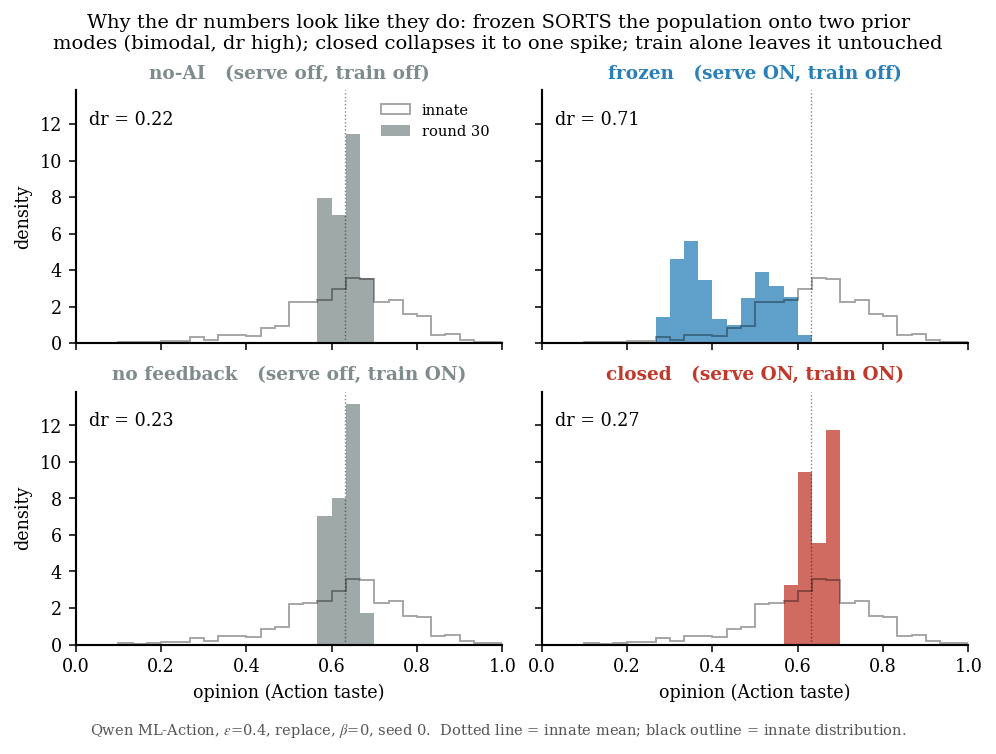
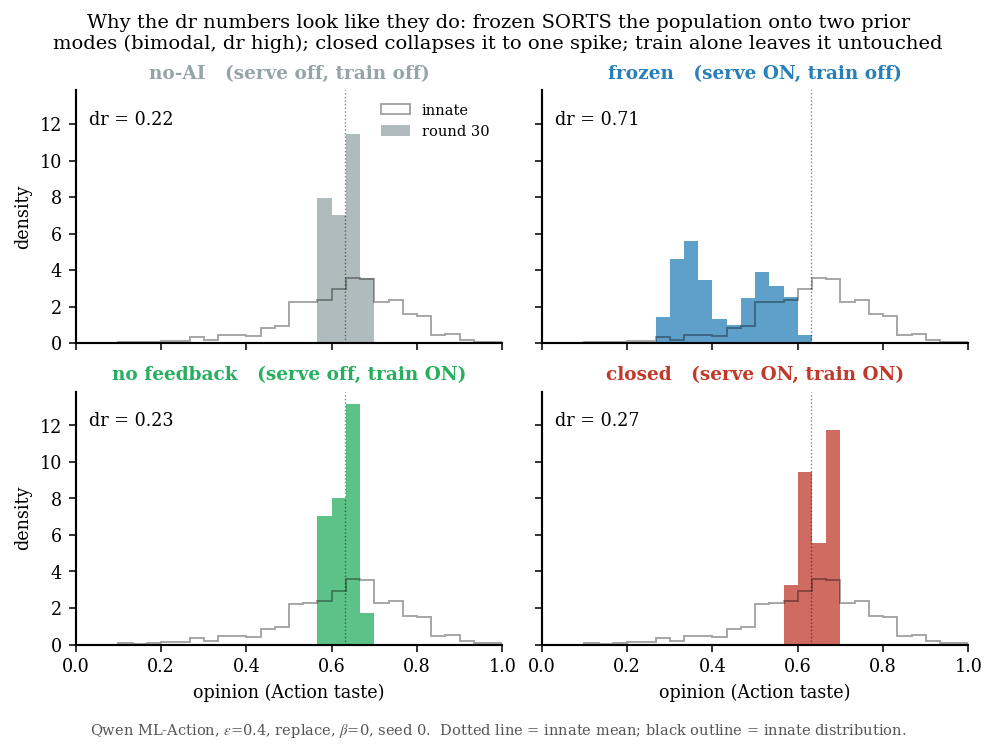
polish: unify four-corner palette (no-feedback green everywhere) across hinge dists/regime to match traj

Changed region(s): [[0.0934, 0.4881, 0.4669, 0.8541], [0.3112, 0.0915, 0.4357, 0.122], [0.249, 0.0915, 0.2801, 0.122]]

diff --git a/experiments/llm/plot_hinge_dists.py b/experiments/llm/plot_hinge_dists.py
@@ -115,7 +115,9 @@ plt.rcParams.update({"font.family": "serif", "mathtext.fontset": "stix",
 fig, axes = plt.subplots(2, 2, figsize=(7.0, 5.0), sharex=True, sharey=True,
                          constrained_layout=True)
 bins = np.linspace(0, 1, 31)
-COLOR = {"no-AI": "#7f8c8d", "no feedback": "#7f8c8d",
+# shared corner palette (matches plot_hinge_traj / _regime):
+# no-AI gray · frozen blue · no-feedback green · closed red
+COLOR = {"no-AI": "#95a5a6", "no feedback": "#27ae60",
          "frozen": "#2980b9", "closed": "#c0392b"}
 for i in range(2):
     for j in range(2):

diff --git a/experiments/llm/plot_hinge_regime.py b/experiments/llm/plot_hinge_regime.py
@@ -74,7 +74,8 @@ plt.rcParams.update({"font.family": "serif", "mathtext.fontset": "stix",
                      "axes.linewidth": 1.1, "font.size": 9})
 fig, (axp, axd) = plt.subplots(1, 2, figsize=(7.4, 3.4), constrained_layout=True)
 x = np.arange(len(REGIMES))
-NF, CL = "#7f8c8d", "#c0392b"
+# shared corner palette: no-feedback green, closed red (matches _traj/_dists)
+NF, CL = "#27ae60", "#c0392b"
 
 axp.plot(x, nf_ppl, "-o", color=NF, lw=2, ms=6, label="no feedback (serve off)")
 axp.plot(x, cl_ppl, "-s", color=CL, lw=2, ms=6, label="closed (serve on)")
